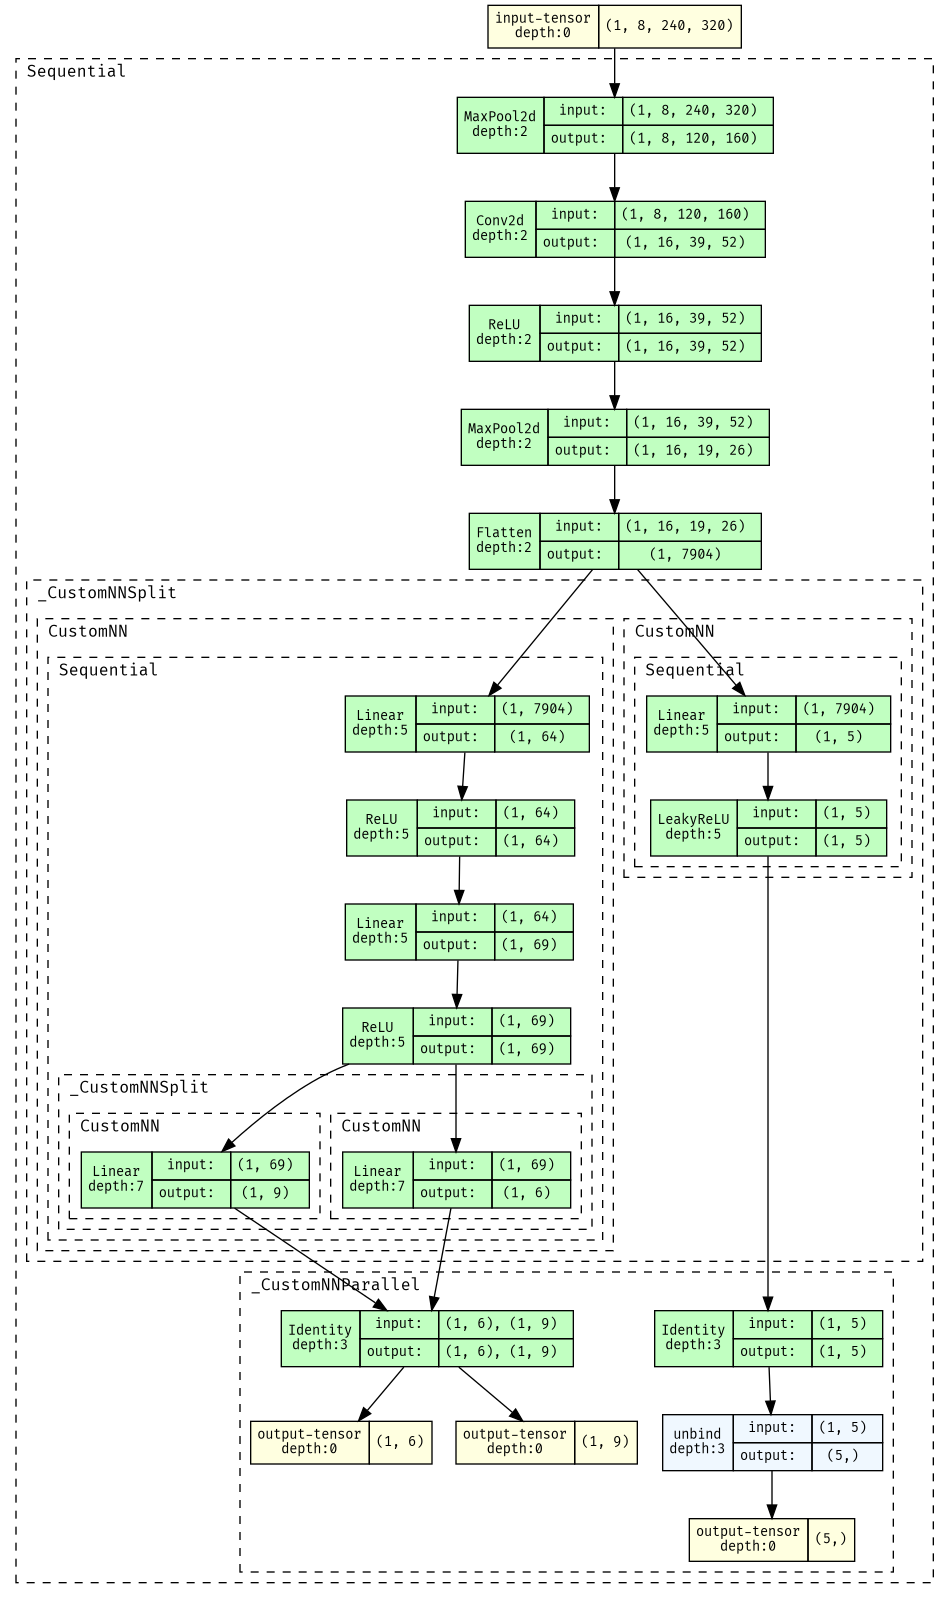
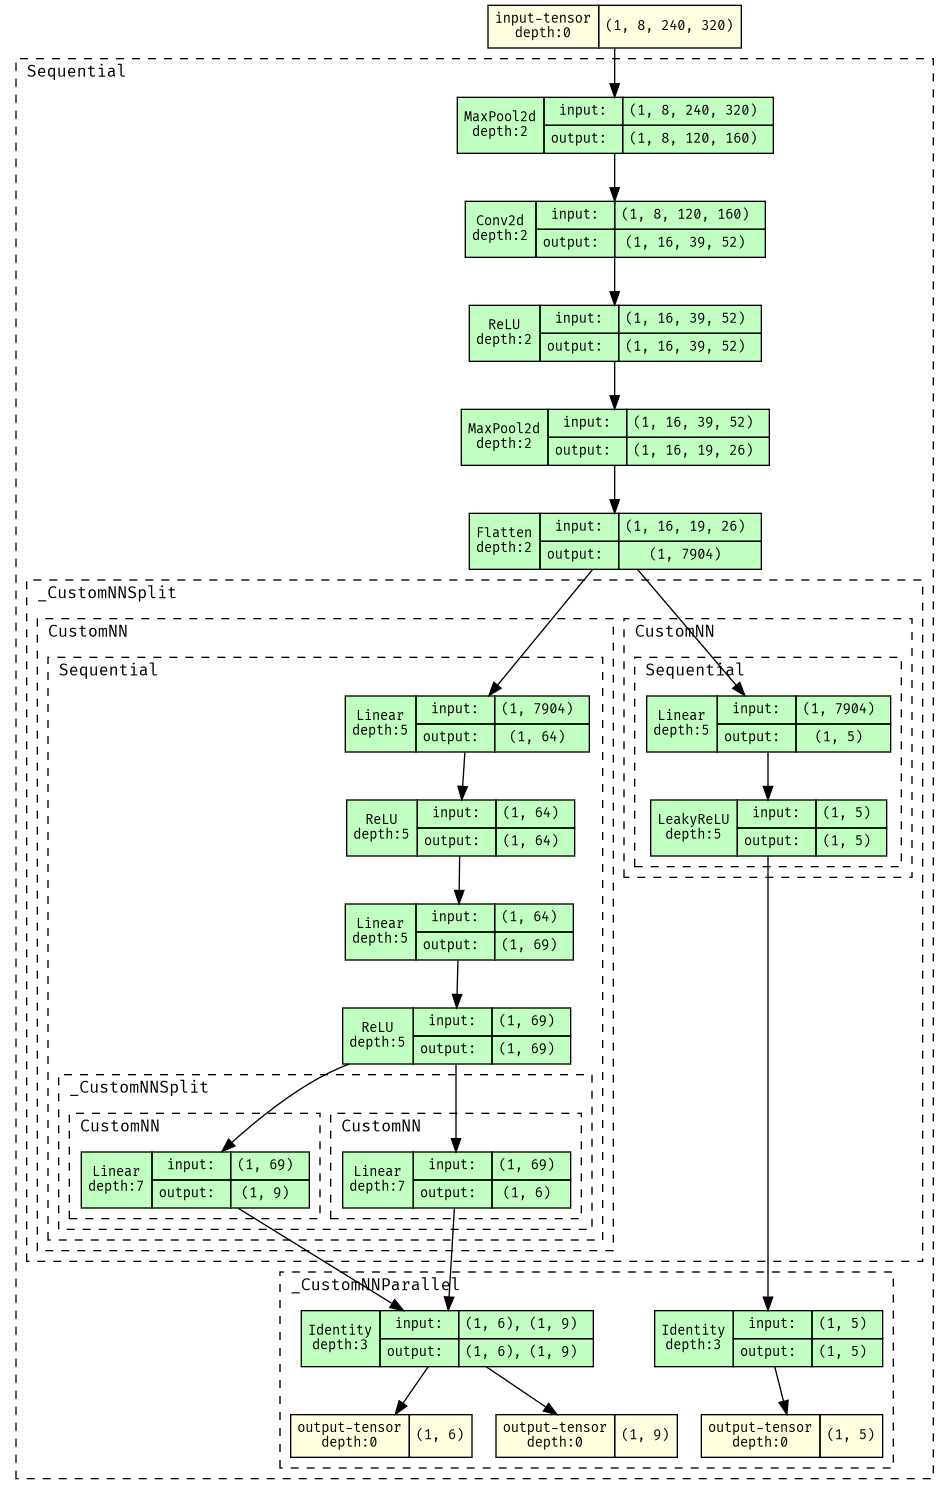
bug hunt

diff --git a/src/config_networks.py b/src/config_networks.py
@@ -263,9 +263,11 @@ class _CustomNNParallel(nn.Module):
                 for i, sh in enumerate(out_shapes):
                     if i in self.extra_kwargs["extract_sub_tuples"]:
                         # sh is a tuple of shapes, extend the array by these shapes
+                        assert type(sh[0]) is tuple, f'indices specified by "extract_sub_tuples" must be tuples, index {i} is a tensor'
                         self.output_shape.extend(sh)
                     else:
                         self.output_shape.append(sh)
+                self.output_shape = tuple(self.output_shape)
             else:
                 self.output_shape = out_shapes
         elif self.combine_tails == "sum":

diff --git a/test/test_networks.py b/test/test_networks.py
@@ -23,6 +23,8 @@ def get_output_shape(obj, unbatch):
         shape = obj.shape
         if unbatch:
             return tuple(shape[1:])
+        else:
+            return tuple(shape)
     else:
         return tuple(get_output_shape(o, unbatch) for o in obj)
 